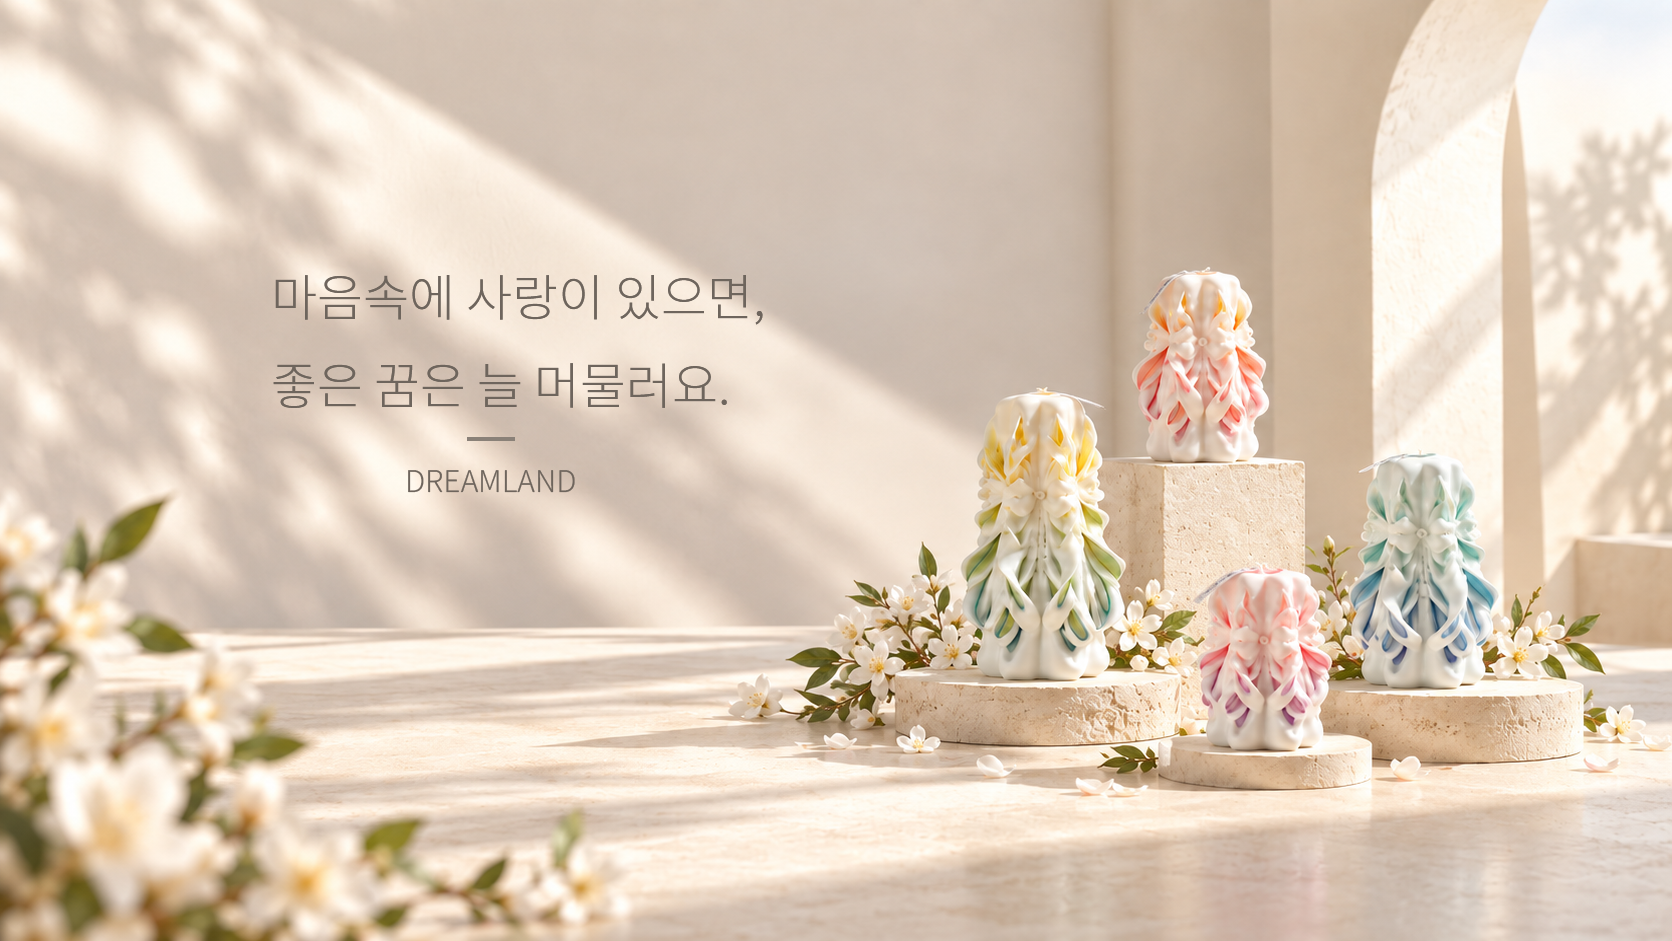
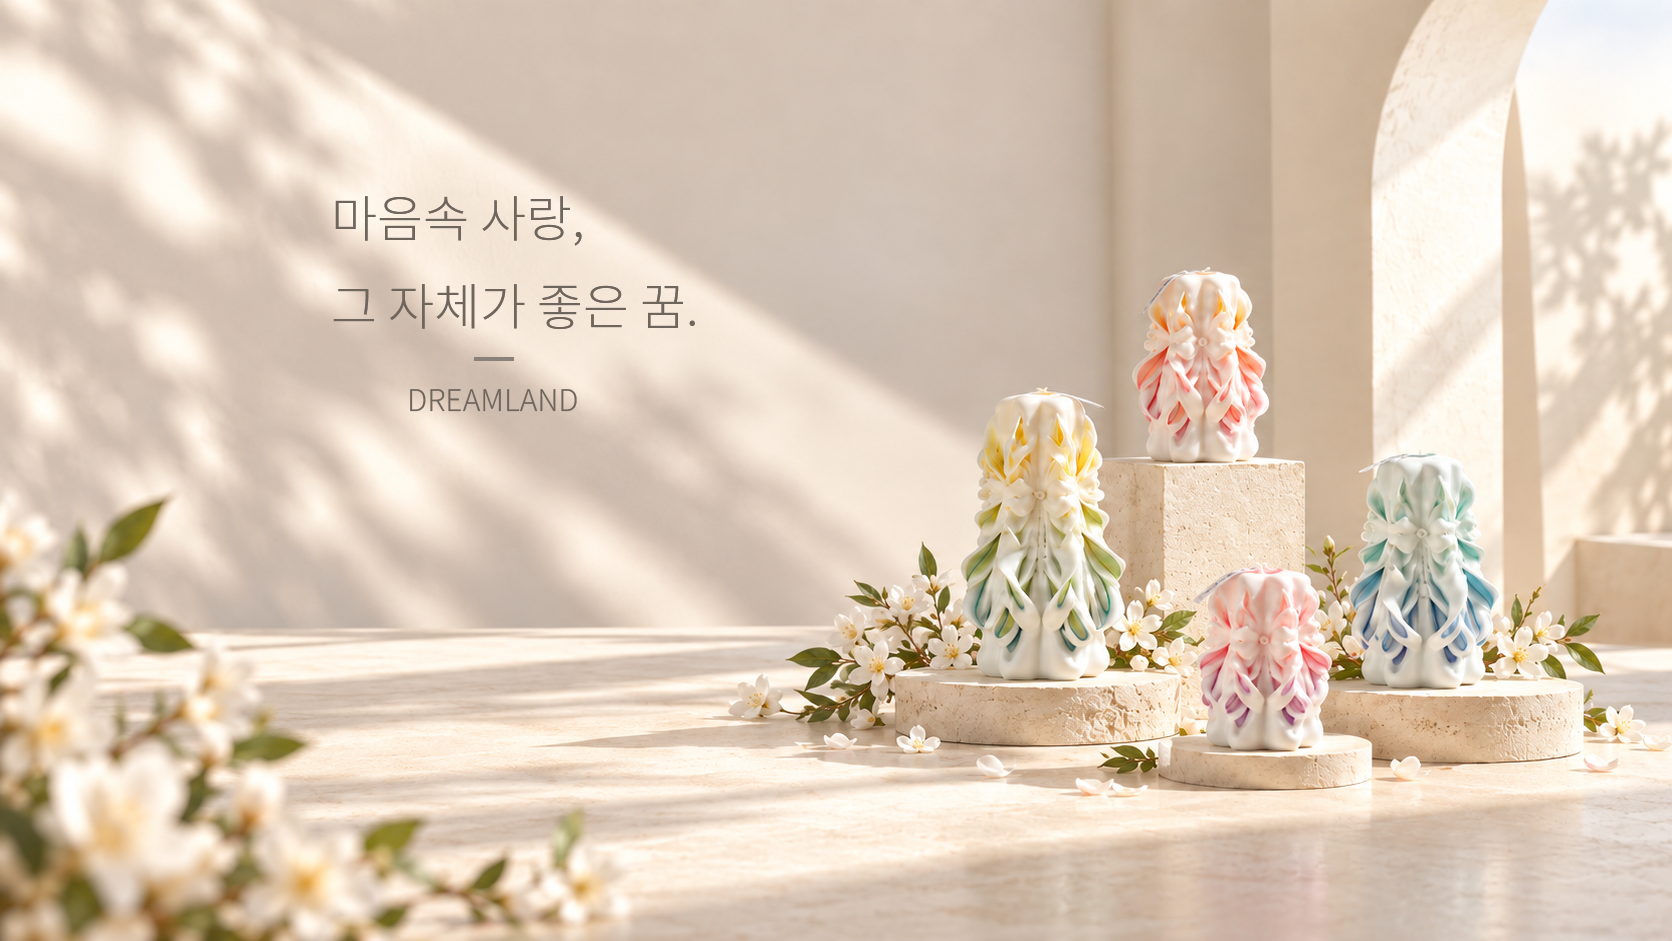
fix: restore persisted locale hero artwork

diff --git a/src/astro/runtime/home-runtime.js b/src/astro/runtime/home-runtime.js
@@ -36,26 +36,9 @@
   function readStorage(key){const s=storage();if(!s)return '';try{return s.getItem(key)||'';}catch(_){return '';}}
   function writeStorage(key,value){const s=storage();if(!s)return false;try{s.setItem(key,String(value));return true;}catch(_){return false;}}
 
-  function normalizeLanguage(
-    value,
-    fallback='en',
-    supported=[
-      'en',
-      'zh',
-      'ko'
-    ]
-  ){
-    const next=
-      String(
-        value||
-        ''
-      )
-        .trim()
-        .toLowerCase();
-
-    return supported.includes(next)
-      ? next
-      : fallback;
+  function normalizeLanguage(value,fallback='en',supported=['en','zh','ko']){
+    const next=String(value||'').trim().toLowerCase();
+    return supported.includes(next)?next:fallback;
   }
 
   function inquiryCount(value){
@@ -99,39 +82,15 @@
     );
   }
 
-  function pathValue(
-    source,
-    path
-  ){
-    return String(
-      path||
-      ''
-    )
-      .split('.')
-      .filter(Boolean)
-      .reduce(
-        (
-          value,
-          key
-        )=>
-          value==
-          null
-            ? undefined
-            : value[key],
-        source
-      );
+  function pathValue(source,path){
+    return String(path||'').split('.').filter(Boolean).reduce(
+      (value,key)=>value==null?undefined:value[key],
+      source
+    );
   }
 
-  function setNodeText(
-    node,
-    value
-  ){
-    if(!node){
-      return;
-    }
-
-    node.textContent=
-      text(value);
+  function setNodeText(node,value){
+    if(node)node.textContent=text(value);
   }
 
   function contentFor(
@@ -446,6 +405,9 @@
         )
       );
     }
+
+    const hero=document.querySelector('[data-home-hero-desktop-source]');
+    if(hero)hero.setAttribute('srcset','/images/desktop/home/hero/hero-main-'+next+'.webp');
 
     applyGenericBindings(view);
     applyCollections(view);
